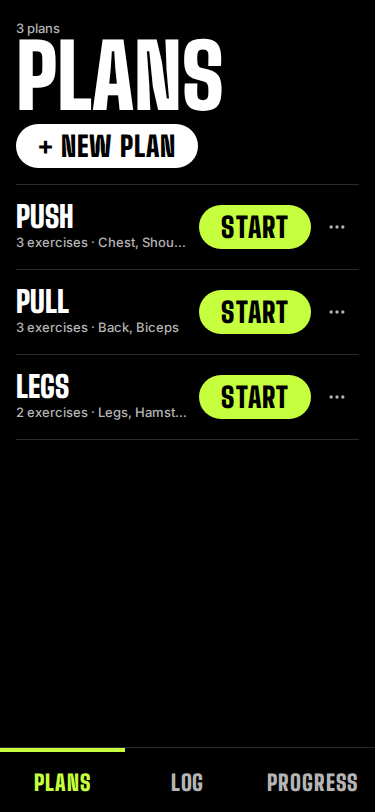
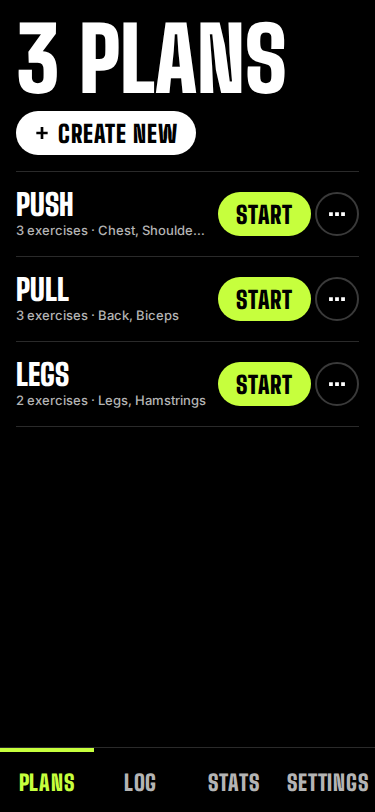
docs: describe the shared button roles and sheet frame

diff --git a/docs/ARCHITECTURE.md b/docs/ARCHITECTURE.md
@@ -21,7 +21,7 @@ GymOS is a frontend-only single-page app. A React tree holds plans and logged se
 | `log` | Log a session set by set, including timed sets, rests and holds and their timers |
 | `progress` | The Stats tab: per-exercise charts and analysis (the folder keeps its earlier name) |
 | `settings` | The Settings tab (also opened by the empty-state import link, which starts the file picker): appearance, units, timers (default rest per category, rest after holds, sound and vibration), language, and the Data card with CSV export, import (each step in a sheet) and Delete all data |
-| `shared` | Small form and layout primitives |
+| `shared` | Form and layout primitives; the button roles (`PrimaryButton`, `SecondaryButton`, the compact `PillButton`, `IconButton`) and the sheets (`Sheet`, its header and rows, `ConfirmSheet`) |
 
 Starting a plan creates an active session, kept in storage until Save, so a reload mid-session restores it and unfinished work never reaches Stats or the export. Editing a saved session opens the same way, but its exercise screens are `SavedSets` (typed rows) instead of `ExerciseLogger`, so no rest or hold timer is created. The four tabs (Plans, Log, Stats, Settings) are hidden while a session is open. Layout widths and breakpoints are tokens in `src/styles/tokens.css`: below 600 px the phone layout fills the screen; from 600 px the app keeps a centred 600 px column with the tab bar inside it; from 1024 px the tabs move to a top bar beside the wordmark. Log home then fills the 1200 px frame in two panes (`.mainContent:has(.logHome)`): New session in a fixed 440 px pane with the plan's first exercises, Recent sessions as a table beside it. Stats does the same: its exercise search and list sit in the left pane in place of the full-screen search sheet, and the chart and figures fill the right; because the sheet and the list are different controls, `ProgressTab` picks one with `useMediaQuery(WIDE_QUERY)` rather than CSS. Plans uses the same hook: the active plans become selectable rows in the left pane, with Archived below them, and the selected plan is shown in full on the right with Start and the actions sheet; the selection is not stored and opens on the first active plan. Below 1024 px the same detail is a screen of its own: tapping a plan's name opens it under a back link, and saving a new plan opens it marked as saved, with Done back to the list; from 1024 px saving selects the new plan in the right pane instead. Edit plan, in the actions sheet of an active plan, opens the same form filled in; saving the changes marks the overview "Changes saved" the same way. An edit replaces the plan in place (same id and list position). Renaming the plan or one of its exercises also renames it in that plan's past sessions, matched by plan id and exercise id, so Log and Stats keep one name; imported sessions without the plan's ids keep the old name, and removed or changed exercises stay as they were logged. With no active plans Plans keeps the 600 px column. With nothing to list, Plans (no active plans), Log (no active plan) and Stats (no saved sessions) show the shared `EmptyState` accent block in place of their visible title, which stays as a visually hidden h1; its CSV import link appears only when the device holds no plans and no sessions. With no active plan and no sessions Log centres that block in the 480 px column, as Stats does. Recent sessions starts at the six newest and grows ten at a time; its plan filter groups sessions by plan id, or by saved plan name for imported sessions without one, so archived and deleted plans keep their history. The filter and the number shown are component state, reset whenever Log home unmounts. Screens without a wide layout keep the 600 px column. The wide-only parts are in the phone markup too, hidden below 1024 px, so the narrower layouts render as before. During a session the log shows either the exercise list or one exercise as a full screen. Every exercise screen stays mounted, hidden when not shown, so a running rest or hold keeps its timer and sound cue while the person looks at another exercise. Its sets table shows today's sets beside last time's: set N is paired with set N of the most recent saved session that has the exercise, in the chosen units, and the Last column is left out when there is no such session. From 1024 px an open exercise spans the window: its timer is fixed in the left 60% at full height (a running or paused timer has its buttons in a strip under the block), and the entry column (navigation on top, the main button and the next-exercise card, or Finish on the last exercise, at the bottom) flows on the right. A reps exercise with no rest running shows the rest it will start, so the split holds still on Set done. The session list and the Done screen keep the 600 px column.
 
@@ -67,7 +67,7 @@ There are no environment variables (`.env.example` declares none) and no runtime
 ## Testing
 
 - Unit: Vitest, colocated as `src/**/*.test.ts`. It covers storage, unit conversion and rounding, CSV parsing and export, import merging and its summary, session and set models, the active session, progress series, metrics and personal records, rest timer rules, clock formatting, the hold phase, plan building, editing (in place, renames carried into past sessions), archive, restore and delete, dates, and the shared controls' sizing and colour rules. `build/serviceWorker.test.ts` checks the worker's precache list and cache name against a real build. Run `npm test`.
-- End to end: Playwright in `tests/e2e/`, against the built app on port 4173 (set `E2E_PORT` to use another) in a Pixel 7 mobile Chromium profile; the date picker, timer wave, picker scroll and edit session specs also run in an iPhone 13 WebKit profile. There is one spec per area: plans and new plan, Log home and its session history, the session date picker, the session list and set logging, rest timers and their cleanup, timed sets, offline reload through the service worker, finish and save, save failures, Stats (`progress*.spec.ts`) and its empty states, Settings and its Data section, the app shell and its tablet and wide layouts, fonts, shared controls (44 px hit areas) and a smoke load of the four tabs. `session-journey.spec.ts` runs a whole session from Log home to Recent. Run `npm run test:e2e`.
+- End to end: Playwright in `tests/e2e/`, against the built app on port 4173 (set `E2E_PORT` to use another) in a Pixel 7 mobile Chromium profile; the date picker, timer wave, picker scroll and edit session specs also run in an iPhone 13 WebKit profile. There is one spec per area: plans and new plan, Log home and its session history, the session date picker, the session list and set logging, rest timers and their cleanup, timed sets, offline reload through the service worker, finish and save, save failures, Stats (`progress*.spec.ts`) and its empty states, Settings and its Data section, the app shell and its tablet and wide layouts, fonts, shared controls (44 px hit areas, and each button role by computed style) and a smoke load of the four tabs. `session-journey.spec.ts` runs a whole session from Log home to Recent. Run `npm run test:e2e`.
 - Accessibility: axe (WCAG 2.1 A and AA) runs inside those specs on each screen and its main states, and `accessibility.spec.ts` adds the four tabs, the plan sheets and the new-plan form. `npm run test:e2e` runs all of it; `npx playwright test accessibility` runs only that file.
 - Lint and types: `npm run lint` and `npx tsc -b`.
 - Continuous integration: none configured.
